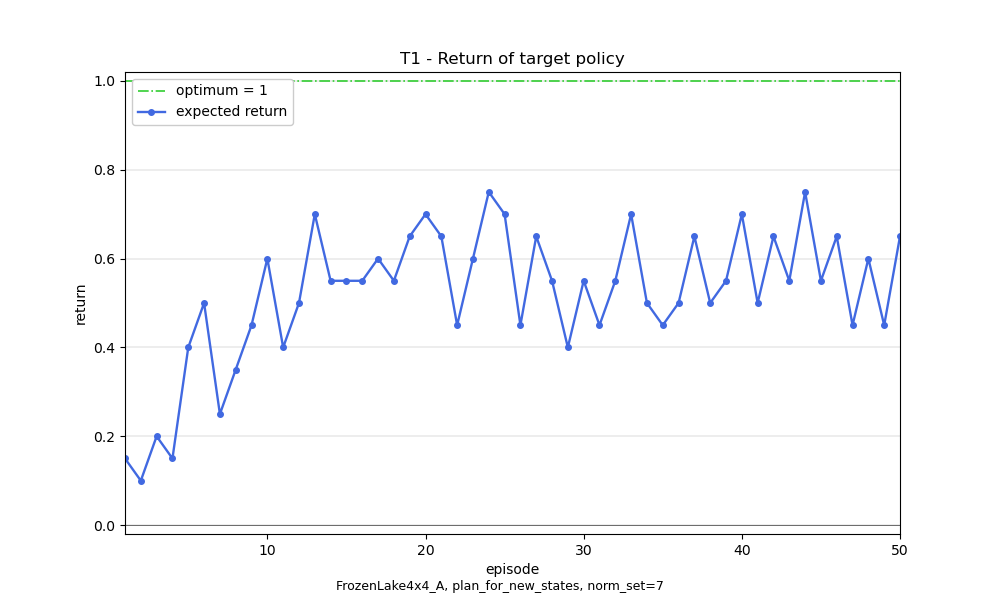
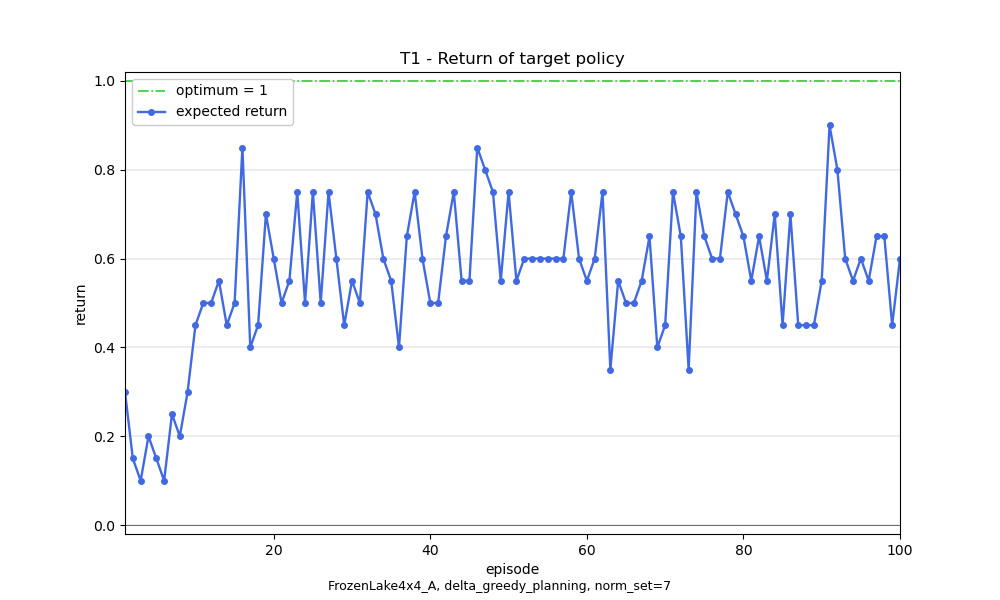
30.09.2024 refactored policies and planning strategies, added new outputs and plots, fixed some bugs

diff --git a/src/utils/utils.py b/src/utils/utils.py
@@ -6,9 +6,7 @@ import ast
 
 from src.configs import configs
 from src.policies.policy import Policy
-from src.policies.epsilon_greedy_policy import EpsilonGreedyPolicy
 from src.policies.planner_policy import PlannerPolicy
-from src.policies.exponential_decay_policy import ExponentialDecayPolicy
 from src.policies.q_table import QTable
 from . import constants
 from .constants import *
@@ -61,16 +59,10 @@ def read_config_param(config_name: str) -> Tuple[int, int, int, dict, dict, dict
 def build_policy(config: str, env):
     _, _, _, learning, frozenlake, planning, deontic = read_config_param(config)
 
-    if planning.get("policy") == "greedy":
+    if planning is None:
         behavior = Policy(QTable(learning.get("initialisation")), learning.get("learning_rate"), learning.get("learning_rate_strategy"), learning.get("learning_decay_rate"), learning.get("discount"))
-    elif planning.get("policy") == "epsilon_greedy":
-        behavior = EpsilonGreedyPolicy(QTable(learning.get("initialisation")), learning.get("learning_rate"), learning.get("learning_rate_strategy"), learning.get("learning_decay_rate"), learning.get("discount"), planning.get("epsilon"))
-    elif planning.get("policy") == "exponential_decay":
-        behavior = ExponentialDecayPolicy(QTable(learning.get("initialisation")), learning.get("learning_rate"), learning.get("learning_rate_strategy"), learning.get("learning_decay_rate"), learning.get("discount"), planning.get("epsilon"))
-    elif planning.get("policy") == "planning":
-        behavior = PlannerPolicy(QTable(learning.get("initialisation")), learning.get("learning_rate"), learning.get("learning_rate_strategy"), learning.get("learning_decay_rate"), learning.get("discount"), planning.get("epsilon"), planning.get("planning_strategy"), planning.get("planning_horizon"), frozenlake.get("name"), deontic.get("norm_set"), deontic.get("evaluation_function"))
     else:
-        raise ValueError(f"Wrong value of policy: {planning.get('policy')}!")
+        behavior = PlannerPolicy(QTable(learning.get("initialisation")), learning.get("learning_rate"), learning.get("learning_rate_strategy"), learning.get("learning_decay_rate"), learning.get("discount"), learning.get("epsilon"), planning.get("planning_strategy"), planning.get("planning_horizon"), planning.get("delta"), frozenlake.get("name"), deontic.get("norm_set"), deontic.get("evaluation_function"))
 
     behavior.initialize({s for s in range(env.get_number_of_tiles())}, constants.ACTION_SET, env)
     target = Policy(behavior.get_q_table(), learning.get("learning_rate"), learning.get("learning_rate_strategy"), learning.get("learning_decay_rate"), learning.get("discount"))
@@ -94,7 +86,7 @@ def compute_expected_return(discount_rate: float, rewards: List[float]) -> float
 
     return G[-1]
 
-def get_average_returns(results):
+def get_average_numbers(results):
     average_returns = []
     episodes = len(results[0])
     repetitions = len(results)
@@ -131,11 +123,15 @@ def test_target(target, env, config):
     traverser_state = env.get_current_traverser_state()  # this is -1 if there is no traverser
     layout, width, height = env.get_layout()
     goal_state = env.get_goal_state()
+    slips = 0
 
     for step in range(max_steps):
-        action_name = target.suggest_action(state)
-        new_state, reward, terminated, truncated, info = env.step(action_name_to_number(action_name))
-        trail_of_target.append([state, action_name, new_state, reward])
+        proposed_action = target.suggest_action(state)
+        new_state, reward, terminated, truncated, info = env.step(action_name_to_number(proposed_action))
+        trail_of_target.append([state, proposed_action, new_state, reward])
+
+        if info.get("prob") == 0.1:
+            slips += 1
 
         if norm_violations is not None:
             check_violations(norm_violations, trail_of_target, terminated or step == max_steps-1, traverser_state, layout, width, height, goal_state)
@@ -146,7 +142,7 @@ def test_target(target, env, config):
         if terminated or truncated:
             break
 
-    return trail_of_target, norm_violations
+    return trail_of_target, norm_violations, slips
 
 
 def check_violations(norm_violations, trail_of_target, terminated, traverser_state, layout, width, height, goal):
@@ -174,6 +170,7 @@ def check_violations(norm_violations, trail_of_target, terminated, traverser_sta
         elif norm == "turnedOnTraverserTile":
             if len(trail_of_target) > 1:
                 if state == traverser_state:
+                    # TODO: this is the proposed action, and thus correct even if slipped
                     _, previous_action, _, _ = trail_of_target[-2]
                     if action_name != previous_action:
                         norm_violations[norm] += 1
@@ -211,7 +208,7 @@ def extract_norm_keys(norm_set):
     return dict(sorted(norms.items()))
 
 
-def store_results(config: str, returns, violations):
+def store_results(config: str, returns, steps, slips, violations):
     conf = configs.get(config)
     path = os.path.join(os.getcwd(), "results", f"{config[0]}", f"{config}_config.txt")
     with open(path, 'w', newline='') as file:
@@ -221,7 +218,17 @@ def store_results(config: str, returns, violations):
     path = os.path.join(os.getcwd(), "results", f"{config[0]}", f"{config}_return.txt")
     with open(path, 'w', newline='') as file:
         file.write(str(returns))
-    print(f"Stored returns in: \t {path}")
+    print(f"Stored return in: \t {path}")
+
+    path = os.path.join(os.getcwd(), "results", f"{config[0]}", f"{config}_steps.txt")
+    with open(path, 'w', newline='') as file:
+        file.write(str(steps))
+    print(f"Stored steps in: \t {path}")
+
+    path = os.path.join(os.getcwd(), "results", f"{config[0]}", f"{config}_slips.txt")
+    with open(path, 'w', newline='') as file:
+        file.write(str(slips))
+    print(f"Stored slips in: \t {path}")
 
     if violations is not None:
         path = os.path.join(os.getcwd(), "results", f"{config[0]}", f"{config}_violations.txt")
@@ -261,13 +268,50 @@ def plot_experiment(config: str):
     # plt.show()
     plt.close()
 
+
+    path = os.path.join(os.getcwd(), "results", f"{config[0]}", f"{config}_steps.txt")
+    steps = []
+    with open(path, 'r', newline='') as file:
+        content = file.read()
+        steps = ast.literal_eval(content)
+
+    path = os.path.join(os.getcwd(), "results", f"{config[0]}", f"{config}_slips.txt")
+    slips = []
+    with open(path, 'r', newline='') as file:
+        content = file.read()
+        slips = ast.literal_eval(content)
+
+    plt.figure(figsize=(10, 6))
+    plt.plot(list(range(1, episodes + 1)), steps, label='number of steps', linewidth=1.7, color='royalblue',
+             marker='o', markersize=4)
+    plt.plot(list(range(1, episodes + 1)), slips, label='number of slips', linewidth=1.7, color='yellow',
+             marker='o', markersize=4)
+    plt.axhline(y=0, color='dimgray', linestyle='-', linewidth=0.7)
+    plt.grid(True, which='both', axis='y', linestyle='-', linewidth=0.2, color='grey')
+
+    plt.title(f'{config} - Average number of steps and of slips of target policy')
+    plt.figtext(0.5, 0.01,
+                f'{frozenlake.get("name")}, {planning.get("planning_strategy")}, norm_set={deontic.get("norm_set")}\n',
+                ha='center', va='center', fontsize=9)
+    plt.xlabel('episode')
+    plt.ylabel('number')
+    plt.legend(loc='upper right', framealpha=1.0)
+
+    plt.xlim(1, episodes)
+    plt.ylim(-0.02, max(steps)+2)
+
+    plt.savefig(os.path.join(os.getcwd(), "plots", f"{config[0]}", f"{config}_steps.png"))
+    # plt.show()
+    plt.close()
+
+
     if deontic.get("norm_set") is not None:
         # the notReachedGoal should be the inverse of return, thus update rewards to 0 / 1
         colors_of_norms = {
-            'occupiedTraverserTile' : 'darkred',
-            'turnedOnTraverserTile' : 'red',
-            'notReachedGoal' : 'royalblue',
-            'movedAwayFromGoal' : 'olive',
+            'occupiedTraverserTile': 'darkred',
+            'turnedOnTraverserTile': 'red',
+            'notReachedGoal': 'royalblue',
+            'movedAwayFromGoal': 'olive',
         }
         # ['red', 'green', 'blue', 'cyan', 'magenta', 'yellow', 'purple', 'orange', 'brown'] https://matplotlib.org/stable/gallery/color/named_colors.html
         path = os.path.join(os.getcwd(), "results", f"{config[0]}", f"{config}_violations.txt")

diff --git a/src/policies/planner_policy.py b/src/policies/planner_policy.py
@@ -6,16 +6,18 @@ from .policy import Policy
 from .q_table import QTable
 from src.planning.planning import *
 from src.utils.constants import ACTION_SET
+from src.utils.constants import debug_print
 
 
 class PlannerPolicy(Policy):
     """
-    This policy use ASP as planning, there are different strategies when the planning should be triggered
+    This policy uses ASP as planning and epsilon greedy exploration, there are different strategies when the planning should be triggered
     """
 
-    def __init__(self, q_table: QTable, learning_rate: float, learning_rate_strategy: str, learning_decay_rate: float, discount: float, epsilon: float, strategy: str, planning_horizon: int, level: str, norm_set: int, evaluation_function: int):
+    def __init__(self, q_table: QTable, learning_rate: float, learning_rate_strategy: str, learning_decay_rate: float, discount: float, epsilon: float, strategy: str, planning_horizon: int, delta: int, level: str, norm_set: int, evaluation_function: int):
         super().__init__(q_table, learning_rate, learning_rate_strategy, learning_decay_rate, discount)
         self.epsilon = epsilon
+        self.delta = delta
         self.strategy = strategy
         self.planning_horizon = planning_horizon
         self.level = level
@@ -35,37 +37,34 @@ class PlannerPolicy(Policy):
         # ie. -1 for short failure is better than -20+10 for long way? --> use as reason to set goal rewards high
 
         if self.strategy == "full_planning":
+            debug_print("planning was triggered")
             action = plan_action(self.level, self.planning_horizon, self.current_state_of_traverser, self.last_performed_action, state, self.current_presents, self.norm_set, self.evaluation_function)
 
         elif self.strategy == "plan_for_new_states":
             if state not in self.visited_states:
+                debug_print("planning was triggered")
                 action = plan_action(self.level, self.planning_horizon, self.current_state_of_traverser, self.last_performed_action, state, self.current_presents, self.norm_set, self.evaluation_function)
             else:
-                action = self.q_table.get_best_action_for_state(state)
+                action = self._retrieve_action_from_table(state)
 
-        elif self.strategy == "epsilon_planning":
-            if random.random() < self.epsilon:
+        elif self.strategy == "delta_greedy_planning":
+            if random.random() < self.delta:
+                debug_print("planning was triggered")
                 action = plan_action(self.level, self.planning_horizon, self.current_state_of_traverser, self.last_performed_action, state, self.current_presents, self.norm_set, self.evaluation_function)
             else:
-                action = self.q_table.get_best_action_for_state(state)
+                action = self._retrieve_action_from_table(state)
 
-        # TODO: maybe combine explorations aspects here as well? -> only with the best exploration aspect --> depends on what is best in A*
-        elif self.strategy == "epsilon_planning_with_epsilon_exploration":
-            if random.random() < self.epsilon:
-                action = plan_action(self.level, self.planning_horizon, self.current_state_of_traverser, self.last_performed_action, state, self.current_presents, self.norm_set, self.evaluation_function)
-            else:
-                if random.random() < self.epsilon:
-                    action = random.choice(list(ACTION_SET))
-                else:
-                    action = self.q_table.get_best_action_for_state(state)
-
-        elif self.strategy == "decaying_planning":
+        elif self.strategy == "delta_decaying_planning":
             # exponential decay
-            chance = math.exp(self.epsilon * -1 * self.call_count)
+            chance = math.exp(self.delta * -1 * self.call_count)
             if random.random() < chance:
+                debug_print("planning was triggered")
                 action = plan_action(self.level, self.planning_horizon, self.current_state_of_traverser, self.last_performed_action, state, self.current_presents, self.norm_set, self.evaluation_function)
             else:
-                action = self.q_table.get_best_action_for_state(state)
+                action = self._retrieve_action_from_table(state)
+
+        elif self.strategy == "no_planning":
+            action = self._retrieve_action_from_table(state)
 
         else:
             raise ValueError(f"invalid planning strategy: {self.strategy}")
@@ -74,6 +73,14 @@ class PlannerPolicy(Policy):
             self.visited_states.append(state)
         self.call_count = self.call_count+1
         return action
+
+    def _retrieve_action_from_table(self, state):
+        if random.random() < self.epsilon:
+            debug_print("exploration was triggered")
+            return random.choice(list(ACTION_SET))
+        else:
+            return self.q_table.get_best_action_for_state(state)
+
 
     def updated_dynamic_env_aspects(self, current_state_of_traverser, last_performed_action, current_presents):
         self.current_state_of_traverser = current_state_of_traverser

diff --git a/src/controller.py b/src/controller.py
@@ -23,6 +23,8 @@ class Controller:
         # -----------------------------------------------------------------------------
         total_returns = []
         total_violations = []
+        total_steps = []
+        total_slips = []
         for rep in range(repetitions):
             env = gym.make(id=frozenlake.get("name"), traverser_path=frozenlake.get("traverser_path"),
                            is_slippery=frozenlake.get("slippery"),
@@ -32,6 +34,8 @@ class Controller:
 
             return_of_target_per_episode = []
             violations_of_target_per_episode = []
+            steps_of_target_per_episode = []
+            slips_of_target_per_episode = []
             print(f"Performing repetition {rep+1} ...", end='\r')
             for episode in range(episodes):
                 debug_print("_____________________________________________")
@@ -66,27 +70,33 @@ class Controller:
                 if type(behavior) == PlannerPolicy:
                     behavior.reset_after_episode()
 
-                trail_of_target, violations_of_target = test_target(target, env, config)
+                # TODO: analyse values of target learning might be too weak (works though but values are low), eithe increase episodes or learning rate
+                trail_of_target, violations_of_target, slips_of_target = test_target(target, env, config)
                 expected_return = compute_expected_return(learning.get("discount"), [r for [_,_,_,r] in trail_of_target])
                 debug_print(f"Expected return of ep {episode}: {expected_return}")
                 debug_print(f"Violations of ep {episode}: {violations_of_target}")
                 debug_print("_____________________________________________")
                 return_of_target_per_episode.append(expected_return)
                 violations_of_target_per_episode.append(violations_of_target)
+                steps_of_target_per_episode.append(len(trail_of_target))
+                slips_of_target_per_episode.append(slips_of_target)
 
             debug_print(f"Finished repetition {rep + 1}")
             debug_print("\n_____________________________________________")
             total_returns.append(return_of_target_per_episode)
             total_violations.append(violations_of_target_per_episode)
-            # debug_print(str(total_returns))
-            # debug_print(str(total_violations))
+            total_steps.append(steps_of_target_per_episode)
+            total_slips.append(slips_of_target_per_episode)
             env.close()
 
         # -----------------------------------------------------------------------------
         # Evaluation
         # -----------------------------------------------------------------------------
-        avg_returns = get_average_returns(total_returns)
+        avg_returns = get_average_numbers(total_returns)
         debug_print(f"Returns:\n{avg_returns}")
+        avg_steps = get_average_numbers(total_steps)
+        debug_print(f"Steps:\n{avg_steps}")
+        avg_slips = get_average_numbers(total_slips)
         avg_violations = None
         if deontic.get("norm_set") is not None:
             avg_violations = get_average_violations(total_violations, deontic.get("norm_set"))
@@ -95,7 +105,7 @@ class Controller:
         # -----------------------------------------------------------------------------
         # Storing of results
         # -----------------------------------------------------------------------------
-        store_results(config, avg_returns, avg_violations)
+        store_results(config, avg_returns, avg_steps, avg_slips, avg_violations)
 
         # -----------------------------------------------------------------------------
         # Plotting

diff --git a/src/configs.py b/src/configs.py
@@ -1,8 +1,8 @@
 configs = {
-    "T1": {"repetitions": 20, "episodes": 50, "max_steps": 50,
-             "learning": {"discount": 0.9, "learning_rate": 0.3, "learning_rate_strategy": "constant", "learning_decay_rate": None, "initialisation": "safe", "reversed_q_learning": True},
+    "T1": {"repetitions": 20, "episodes": 100, "max_steps": 50,
+             "learning": {"discount": 0.9, "learning_rate": 0.3, "learning_rate_strategy": "constant", "learning_decay_rate": None, "epsilon": 0.3, "initialisation": "safe", "reversed_q_learning": True},
              "frozenlake": {"name": "FrozenLake4x4_A", "slippery": True, "traverser_path": "4x4_A"},
-             "planning" : {"policy": "planning", "epsilon": 0.05, "planning_strategy": "plan_for_new_states", "planning_horizon": 12},
+             "planning" : {"delta": 0.5, "planning_strategy": "delta_greedy_planning", "planning_horizon": 12},
              "deontic": {"norm_set": 7, "evaluation_function": 3}
              },
     "T2": {"repetitions": 10, "episodes": 10, "max_steps": 50,

diff --git a/src/utils/constants.py b/src/utils/constants.py
@@ -2,5 +2,9 @@ ACTION_SET = {"LEFT", "DOWN", "RIGHT", "UP"}
 TEST_SUITE_SIZE = {"A": 25, "B":18}
 ANACONDA_PATH = r'C:\Users\Adi\anaconda3\Scripts\activate.bat'
 CONDA_ENV_NAME = 'FrozenLake'
-DEBUG_MODE = True
+DEBUG_MODE = False
 # DEBUG_MODE = False
+
+def debug_print(msg):
+    if DEBUG_MODE:
+        print(msg)

diff --git a/src/policies/__init__.py b/src/policies/__init__.py
@@ -1,4 +1,3 @@
 from .policy import Policy
-from .epsilon_greedy_policy import EpsilonGreedyPolicy
 from .planner_policy import PlannerPolicy
 from .q_table import QTable
